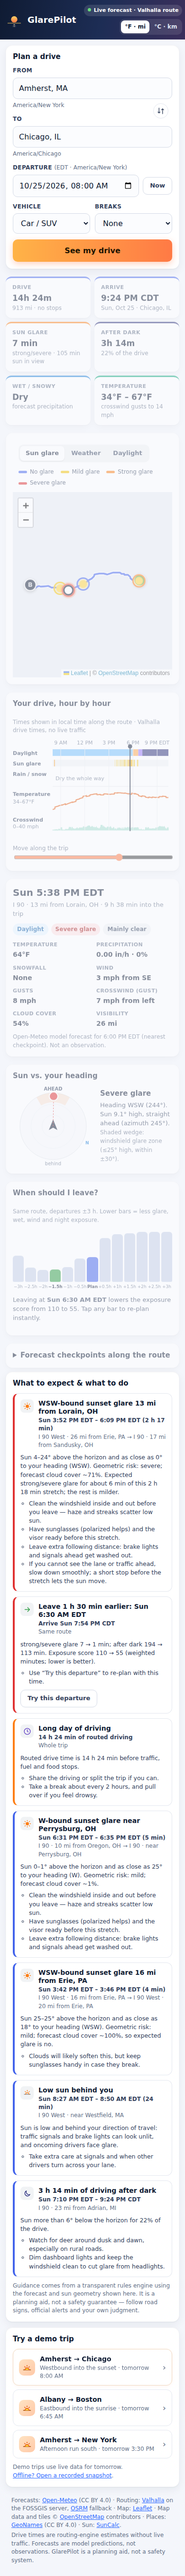
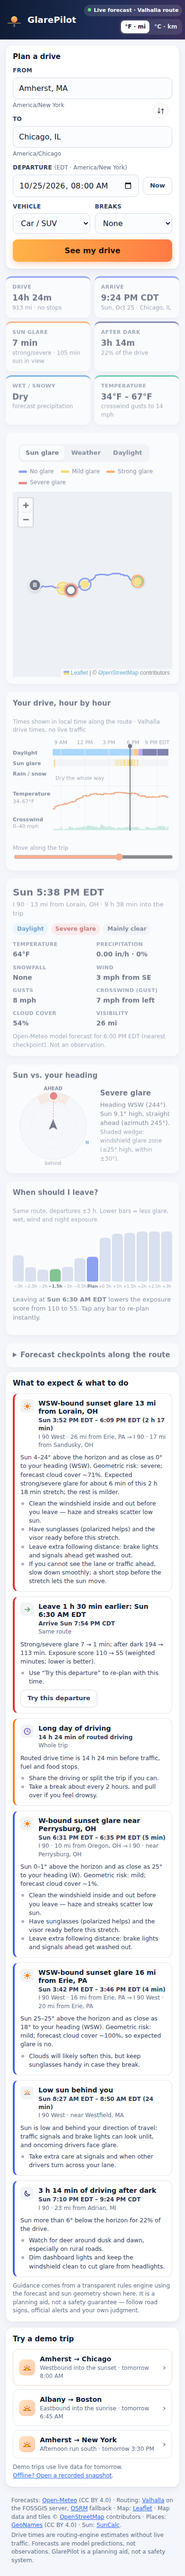
Shorter cloud-softened glare KPI; capitalize optimizer reason

diff --git a/src/main.js b/src/main.js
@@ -257,10 +257,10 @@ function renderKpis() {
     kpi(
       'glare',
       'Sun glare',
-      glareStrong >= 1 ? `${Math.round(glareStrong)} min` : t.glareMin[2] + t.glareMin[3] >= 1 ? 'Cloud-softened' : glareGeo >= 1 ? 'Mild only' : 'None',
+      glareStrong >= 1 ? `${Math.round(glareStrong)} min` : t.glareMin[2] + t.glareMin[3] >= 1 ? 'Softened' : glareGeo >= 1 ? 'Mild only' : 'None',
       glareStrong >= 1 || glareGeo < 1
         ? glareGeo >= 1 ? `strong/severe · ${Math.round(glareGeo)} min sun in view` : 'sun never in your eyes'
-        : t.glareMin[2] + t.glareMin[3] >= 1 ? `${Math.round(t.glareMin[2] + t.glareMin[3])} min strong sun angle, clouds forecast` : `${Math.round(glareGeo)} min sun in view`
+        : t.glareMin[2] + t.glareMin[3] >= 1 ? `by clouds · ${Math.round(t.glareMin[2] + t.glareMin[3])} min low sun ahead` : `${Math.round(glareGeo)} min sun in view`
     ),
     kpi('night', 'After dark', ev.totals.nightMin >= 1 ? formatDuration(ev.totals.nightMin * 60, { compact: true }) : 'None', `${Math.round((ev.totals.nightMin / (ev.driveSec / 60)) * 100)}% of the drive`),
     kpi('wet', 'Wet / snowy', t.wetMin >= 1 ? formatDuration(t.wetMin * 60, { compact: true }) : 'Dry', t.snowMin >= 1 ? `${Math.round(t.snowMin)} min snow/ice` : t.missingMin > 1 ? `${Math.round(t.missingMin)} min no forecast` : 'forecast precipitation'),

diff --git a/src/lib/advice.js b/src/lib/advice.js
@@ -308,7 +308,7 @@ export function buildAdvice(model, ev, { vehicle = 'car', optimizer = null, unit
       title: `Leave ${formatDuration(Math.abs(b.offsetMin) * 60)} ${sign}: ${formatClock(b.departureUtc, model.originTz)}`,
       when: `Arrive ${formatClock(b.arrivalUtc, model.destTz)}`,
       where: 'Same route',
-      why: `${deltas.join('; ')}. Exposure score ${Math.round(c.score)} → ${Math.round(b.score)} (weighted minutes; lower is better).`,
+      why: `${deltas.join('; ').replace(/^./, (c) => c.toUpperCase())}. Exposure score ${Math.round(c.score)} → ${Math.round(b.score)} (weighted minutes; lower is better).`,
       actions: ['Use “Try this departure” to re-plan with this time.'],
       focus: null,
       range: null,
